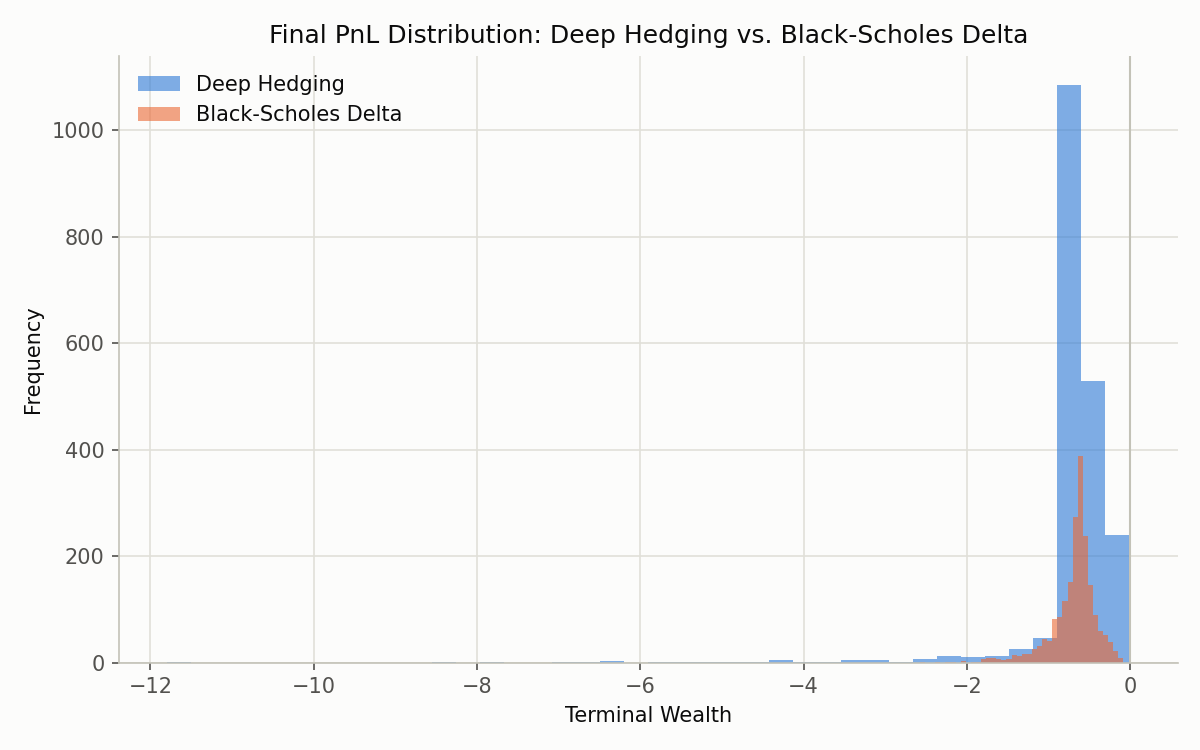
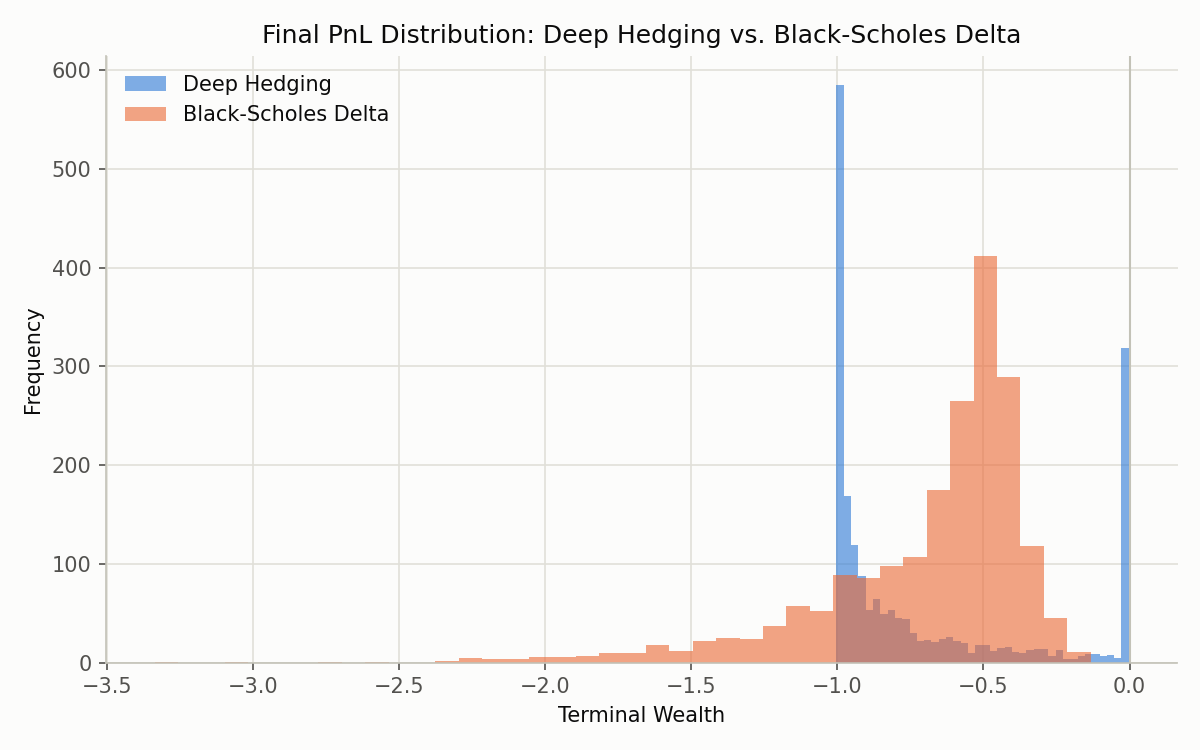
Load pretrained policy checkpoint in backtester evaluate.py
Adds the sys.path bootstrap so `python src/backtester/evaluate.py`
runs as a bare script, and loads the real trained policy from
checkpoints/hedging_agent.pt (reusing its training strike/implied_vol)
instead of always retraining a 200-step throwaway demo policy. Falls
back to the demo training loop only if no checkpoint exists yet.
Refreshes results/ with the backtest against the actual trained agent.

diff --git a/src/backtester/evaluate.py b/src/backtester/evaluate.py
@@ -10,8 +10,9 @@ math_spec.md section 2).
 
 import json
 import math
+import sys
 from pathlib import Path
-from typing import Annotated, Dict, Optional, Union
+from typing import Annotated, Dict, Optional, Tuple, Union
 
 import matplotlib
 
@@ -19,11 +20,17 @@ matplotlib.use("Agg")
 import matplotlib.pyplot as plt
 import torch
 
-from environment.market_env import MarketEnvironment
-from generator.market_gan import Generator
-from loss.cvar import CVaRLoss
-from policy.hedging_agent import HedgingAgent
-from policy.train_policy import PolicyTrainer
+# Allow `python src/backtester/evaluate.py` to resolve sibling packages the
+# same way pytest's `pythonpath = src` does, regardless of invocation style.
+_SRC_DIR = Path(__file__).resolve().parent.parent
+if str(_SRC_DIR) not in sys.path:
+    sys.path.insert(0, str(_SRC_DIR))
+
+from environment.market_env import MarketEnvironment  # noqa: E402
+from generator.market_gan import Generator  # noqa: E402
+from loss.cvar import CVaRLoss  # noqa: E402
+from policy.hedging_agent import HedgingAgent  # noqa: E402
+from policy.train_policy import PolicyTrainer  # noqa: E402
 
 # Categorical colors (fixed order, project dataviz palette slots 1 & 2):
 # Deep Hedging is always blue, Black-Scholes Delta is always orange.
@@ -351,9 +358,10 @@ def _train_demo_policy(
 ) -> HedgingAgent:
     """Trains a small HedgingAgent on in-distribution market_gan.py paths.
 
-    In production this would load a checkpoint produced by
-    `policy.train_policy.PolicyTrainer`; here a short training loop gives
-    `run_backtest` a non-trivial policy to stress-test.
+    Fallback for when no checkpoint exists at checkpoints/hedging_agent.pt:
+    a short training loop gives `run_backtest` a non-trivial policy to
+    stress-test. Prefer `python src/policy/train_policy.py` for a properly
+    converged policy.
     """
     policy = HedgingAgent(hidden_dim=32, num_hidden_layers=2)
     generator = Generator(noise_dim=8, hidden_dim=32, num_layers=1, initial_price=strike)
@@ -375,13 +383,38 @@ def _train_demo_policy(
     return policy
 
 
+def _load_or_train_policy(
+    checkpoint_path: Annotated[Path, "path to a checkpoint saved by policy/train_policy.py"],
+    device: torch.device,
+) -> Annotated[Tuple[HedgingAgent, float, float], "(policy, strike, implied_vol)"]:
+    """Loads a pretrained HedgingAgent, or trains a short demo policy as fallback."""
+    if checkpoint_path.exists():
+        checkpoint = torch.load(checkpoint_path, map_location="cpu", weights_only=False)
+        policy_args = checkpoint["args"]
+        policy = HedgingAgent(
+            hidden_dim=policy_args["hidden_dim"],
+            num_hidden_layers=policy_args["num_hidden_layers"],
+        )
+        policy.load_state_dict(checkpoint["policy_state_dict"])
+        print(f"Loaded pretrained policy from {checkpoint_path}")
+        return policy, policy_args["strike"], policy_args["implied_vol"]
+
+    strike, implied_vol = 1.0, 0.30
+    print(
+        f"No policy checkpoint found at {checkpoint_path}; training a short demo policy. "
+        "Run `python src/policy/train_policy.py` first for a properly converged policy."
+    )
+    policy = _train_demo_policy(strike, implied_vol, device)
+    return policy, strike, implied_vol
+
+
 if __name__ == "__main__":
     torch.manual_seed(0)
     device = torch.device("cpu")
-    strike = 1.0
-    implied_vol = 0.30
 
-    demo_policy = _train_demo_policy(strike, implied_vol, device)
+    demo_policy, strike, implied_vol = _load_or_train_policy(
+        Path("checkpoints/hedging_agent.pt"), device
+    )
 
     result = run_backtest(
         deep_hedging_policy=demo_policy,
